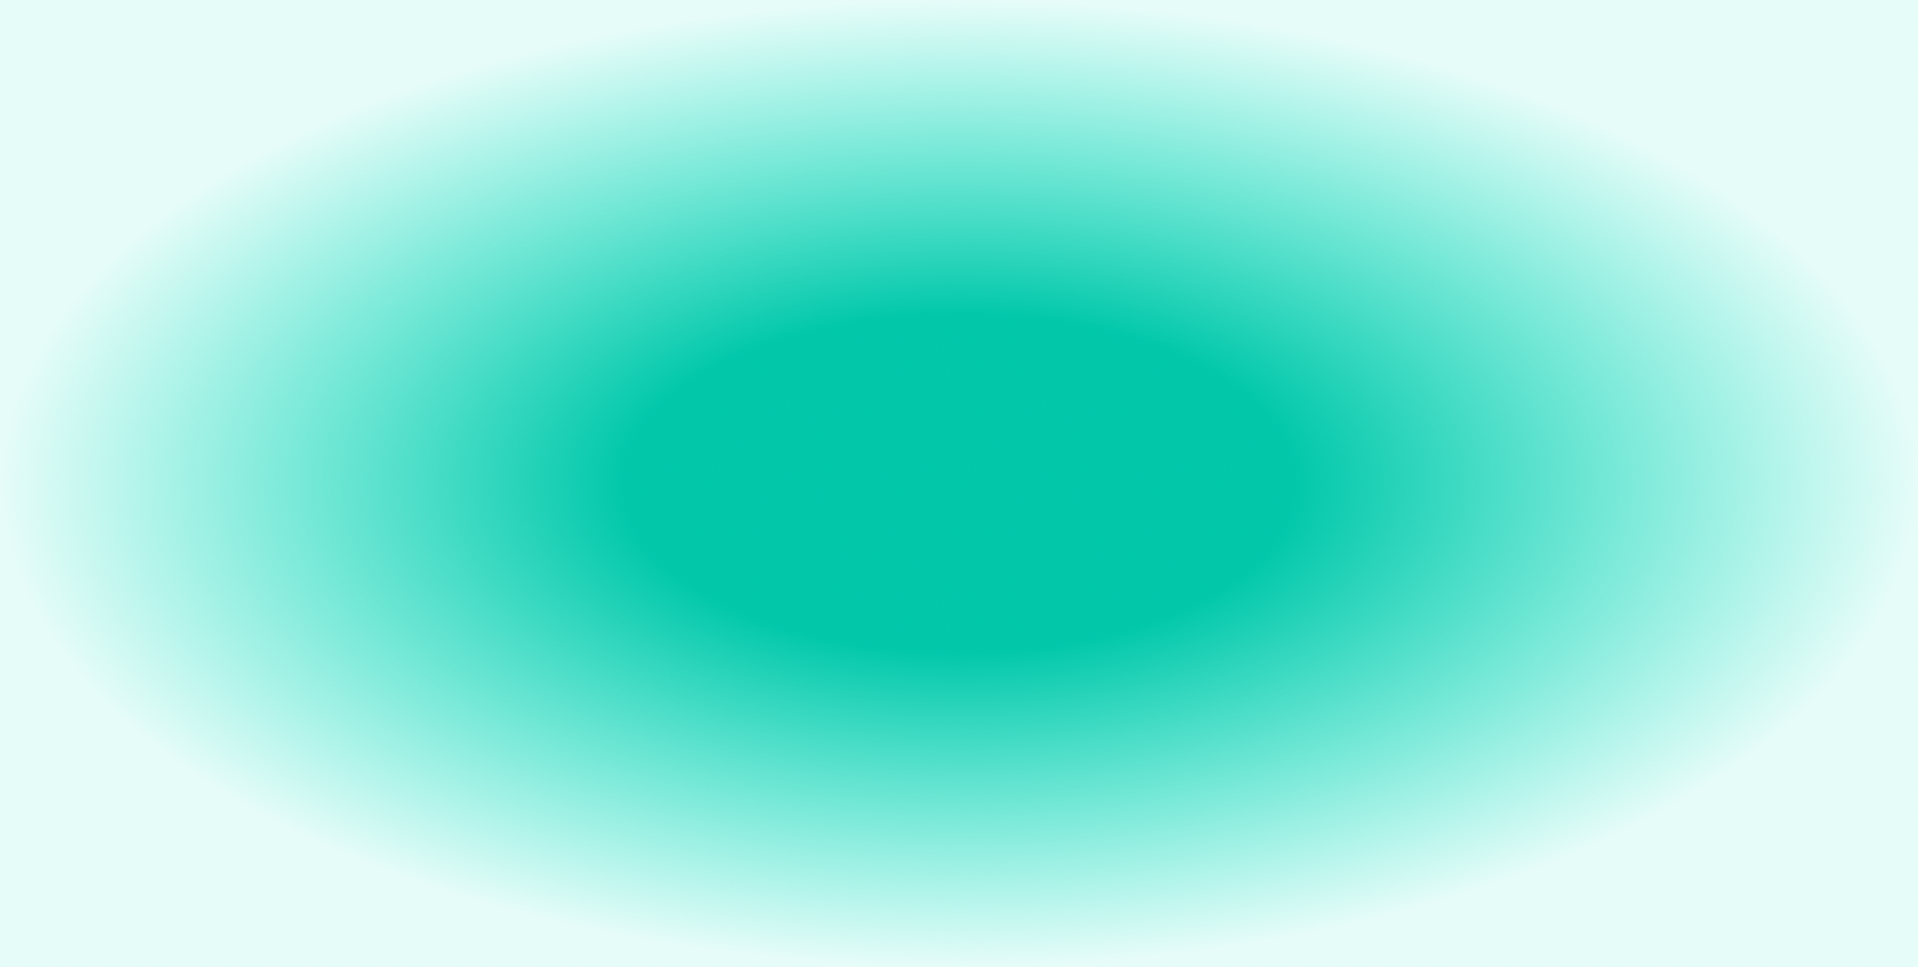
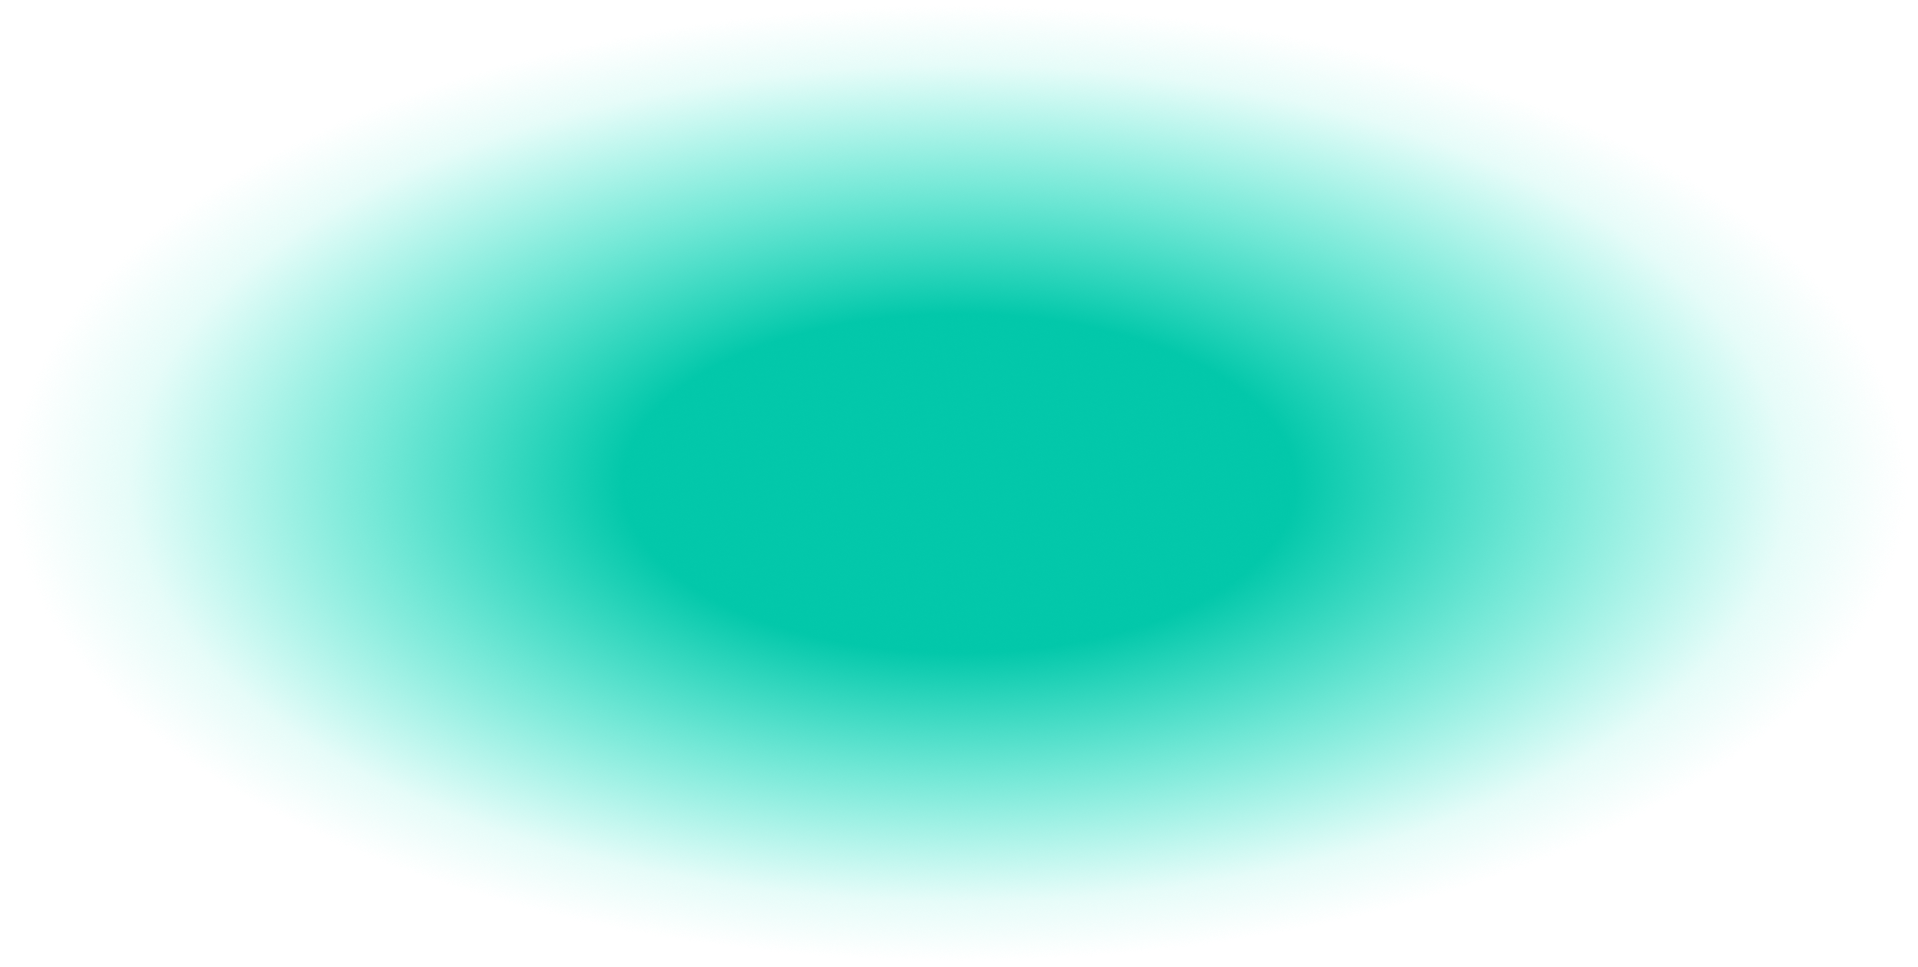
7437483784787

diff --git a/partnership.html b/partnership.html
@@ -288,31 +288,32 @@
       </div>
     </section>
 
-    <!-- ТРЕБОВАНИЯ К ПАРТНЕРАМ -->
-    <section id="requirements" class="py-6">
+    <!-- CTA -->
+    <section id="cta" class="py-6">
       <div class="container">
-        <h2 class="h3 fw-700 mb-4">Требования к партнерам</h2>
-        <div class="row g-4">
-          <div class="col-12 col-lg-6">
-            <div class="glass pad-2x">
-              <h4 class="h6 mb-3">Технические требования</h4>
-              <ul class="text-mute-300 mb-0">
-                <li>Объем данных от 100,000 записей</li>
-                <li>Качество данных не менее 85%</li>
-                <li>Возможность интеграции с API</li>
-                <li>Соответствие требованиям безопасности</li>
-              </ul>
+        <div class="cta-dark pad-2x rounded-4">
+          <div class="row g-4 align-items-center">
+            <div class="col-12 col-lg-6">
+              <h2 class="h4 mb-2" style="color: #ffffff !important; font-size: 1.5rem !important;">Готовы стать партнером?</h2>
+              <p class="text-mute-300 mb-3">Оставьте заявку — обсудим детали сотрудничества и составим индивидуальный план</p>
+              <div class="d-flex gap-2">
+                <button type="button" class="btn btn-primary-gy px-4 py-2" data-bs-toggle="modal" data-bs-target="#contactModal">Подать заявку</button>
+              </div>
             </div>
-          </div>
-          <div class="col-12 col-lg-6">
-            <div class="glass pad-2x">
-              <h4 class="h6 mb-3">Бизнес-требования</h4>
-              <ul class="text-mute-300 mb-0">
-                <li>Готовность к долгосрочному сотрудничеству</li>
-                <li>Назначение ответственного за проект</li>
-                <li>Соблюдение конфиденциальности</li>
-                <li>Участие в тестировании и обратной связи</li>
-              </ul>
+            <div class="col-12 col-lg-6">
+              <div class="partnership-card">
+                <div class="d-flex align-items-start gap-3">
+                  <a href="about.html" class="partnership-avatar-link">
+                    <img alt="avatar" class="rounded-circle border border-ink-700" width="48" height="48" src="img/img8.png" loading="lazy"/>
+                  </a>
+                  <div>
+                    <p class="small text-mute-200 mb-1">
+                      Ваши данные начинают работать на вас: вы получаете долю прибыли от использования модели, доступ к её результатам и гарантированное техническое сопровождение.
+                    </p>
+                    <div class="small text-mute-400">Рытов Павел — CTO</div>
+                  </div>
+                </div>
+              </div>
             </div>
           </div>
         </div>
@@ -332,7 +333,7 @@
             </h2>
             <div id="fa1" class="accordion-collapse collapse" aria-labelledby="f1" data-bs-parent="#faqAcc">
               <div class="accordion-body">
-                Минимальный объем данных составляет 100,000 записей. Качество данных должно быть не менее 85%. Мы также оцениваем совместимость ваших данных с существующими моделями федеративного обучения.
+                В зависимости от типа обучения должны быть либо ортогональные признаки к данным DigiTrack, либо большое пересечение по ID пользователей. Мы оцениваем совместимость ваших данных с существующими моделями федеративного обучения.
               </div>
             </div>
           </div>
@@ -356,7 +357,7 @@
             </h2>
             <div id="fa3" class="accordion-collapse collapse" aria-labelledby="f3" data-bs-parent="#faqAcc">
               <div class="accordion-body">
-                Вы получаете долю от дохода, генерируемого федеративной моделью, пропорционально вкладу ваших данных. Доходы распределяются ежемесячно на основе метрик качества и объема данных. Также вы получаете доступ к результатам модели для собственных нужд.
+                Вы получаете долю от дохода, генерируемого федеративной моделью. Доходы распределяются ежемесячно на основе метрик качества и объема данных.
               </div>
             </div>
           </div>
@@ -388,47 +389,7 @@
       </div>
     </section>
 
-    <!-- CTA -->
-    <section id="cta" class="py-6">
-      <div class="container">
-        <div class="glass-xl pad-2x rounded-4">
-          <div class="row g-4 align-items-center">
-            <div class="col-12 col-lg-8">
-              <h2 class="h4 fw-700 mb-2">Готовы стать партнером?</h2>
-              <p class="text-mute-300 mb-0">Оставьте заявку — обсудим детали сотрудничества и составим индивидуальный план</p>
-            </div>
-            <div class="col-12 col-lg-4 text-lg-end">
-              <a href="#contact" class="btn btn-primary-gy">Подать заявку</a>
-            </div>
-          </div>
-          <div class="thin-divider mt-4"></div>
-          <div class="small text-mute-400 mt-2">Более 300+ партнеров уже работают с нами</div>
-        </div>
-      </div>
-    </section>
 
-    <!-- КОНТАКТЫ -->
-    <section id="contact" class="py-6">
-      <div class="container">
-        <h2 class="h3 fw-700 mb-4">Контакты для партнерства</h2>
-        <div class="row g-4">
-          <div class="col-12 col-lg-6">
-            <div class="glass pad-2x">
-              <h4 class="h6 mb-3">Директор по развитию</h4>
-              <p class="text-mute-300 mb-2">Елена Петрова</p>
-              <p class="small text-mute-400 mb-0">elena.petrova@digitrack.ru</p>
-            </div>
-          </div>
-          <div class="col-12 col-lg-6">
-            <div class="glass pad-2x">
-              <h4 class="h6 mb-3">Технический директор</h4>
-              <p class="text-mute-300 mb-2">Павел Рытов</p>
-              <p class="small text-mute-400 mb-0">mikhail.alexin@digitrack.ru</p>
-            </div>
-          </div>
-        </div>
-      </div>
-    </section>
   </main>
 
   <!-- FOOTER -->

diff --git a/styles.css b/styles.css
@@ -608,15 +608,75 @@ body{
 }
 
 @media (max-width: 992px) {
-  .timeline-header,
-  .timeline-step {
-    grid-template-columns: 1fr;
-    gap: 1rem;
+  .timeline-container-full {
+    overflow-x: auto;
+    padding: 1rem;
   }
   
   .timeline-header {
-    padding-left: 0;
+    grid-template-columns: 150px repeat(6, 80px);
+    gap: 0.25rem;
+    padding-left: 150px;
+    min-width: 630px;
   }
+  
+  .timeline-step {
+    grid-template-columns: 150px repeat(6, 80px);
+    gap: 0.25rem;
+    padding: 0.75rem 0;
+    min-width: 630px;
+  }
+  
+  .step-name {
+    font-size: 0.8rem;
+    padding-right: 0.5rem;
+  }
+  
+  .month-label {
+    font-size: 0.8rem;
+  }
+  
+  .checkmark {
+    width: 20px;
+    height: 20px;
+    font-size: 0.7rem;
+  }
+}
+
+@media (max-width: 480px) {
+  .timeline-container-full {
+    padding: 0.5rem;
+  }
+  
+  .timeline-header {
+    grid-template-columns: 120px repeat(6, 60px);
+    gap: 0.2rem;
+    padding-left: 120px;
+    min-width: 480px;
+  }
+  
+  .timeline-step {
+    grid-template-columns: 120px repeat(6, 60px);
+    gap: 0.2rem;
+    padding: 0.5rem 0;
+    min-width: 480px;
+  }
+  
+  .step-name {
+    font-size: 0.75rem;
+    padding-right: 0.25rem;
+  }
+  
+  .month-label {
+    font-size: 0.75rem;
+  }
+  
+  .checkmark {
+    width: 18px;
+    height: 18px;
+    font-size: 0.65rem;
+  }
+}
   
   .step-dots {
     justify-content: flex-start;
